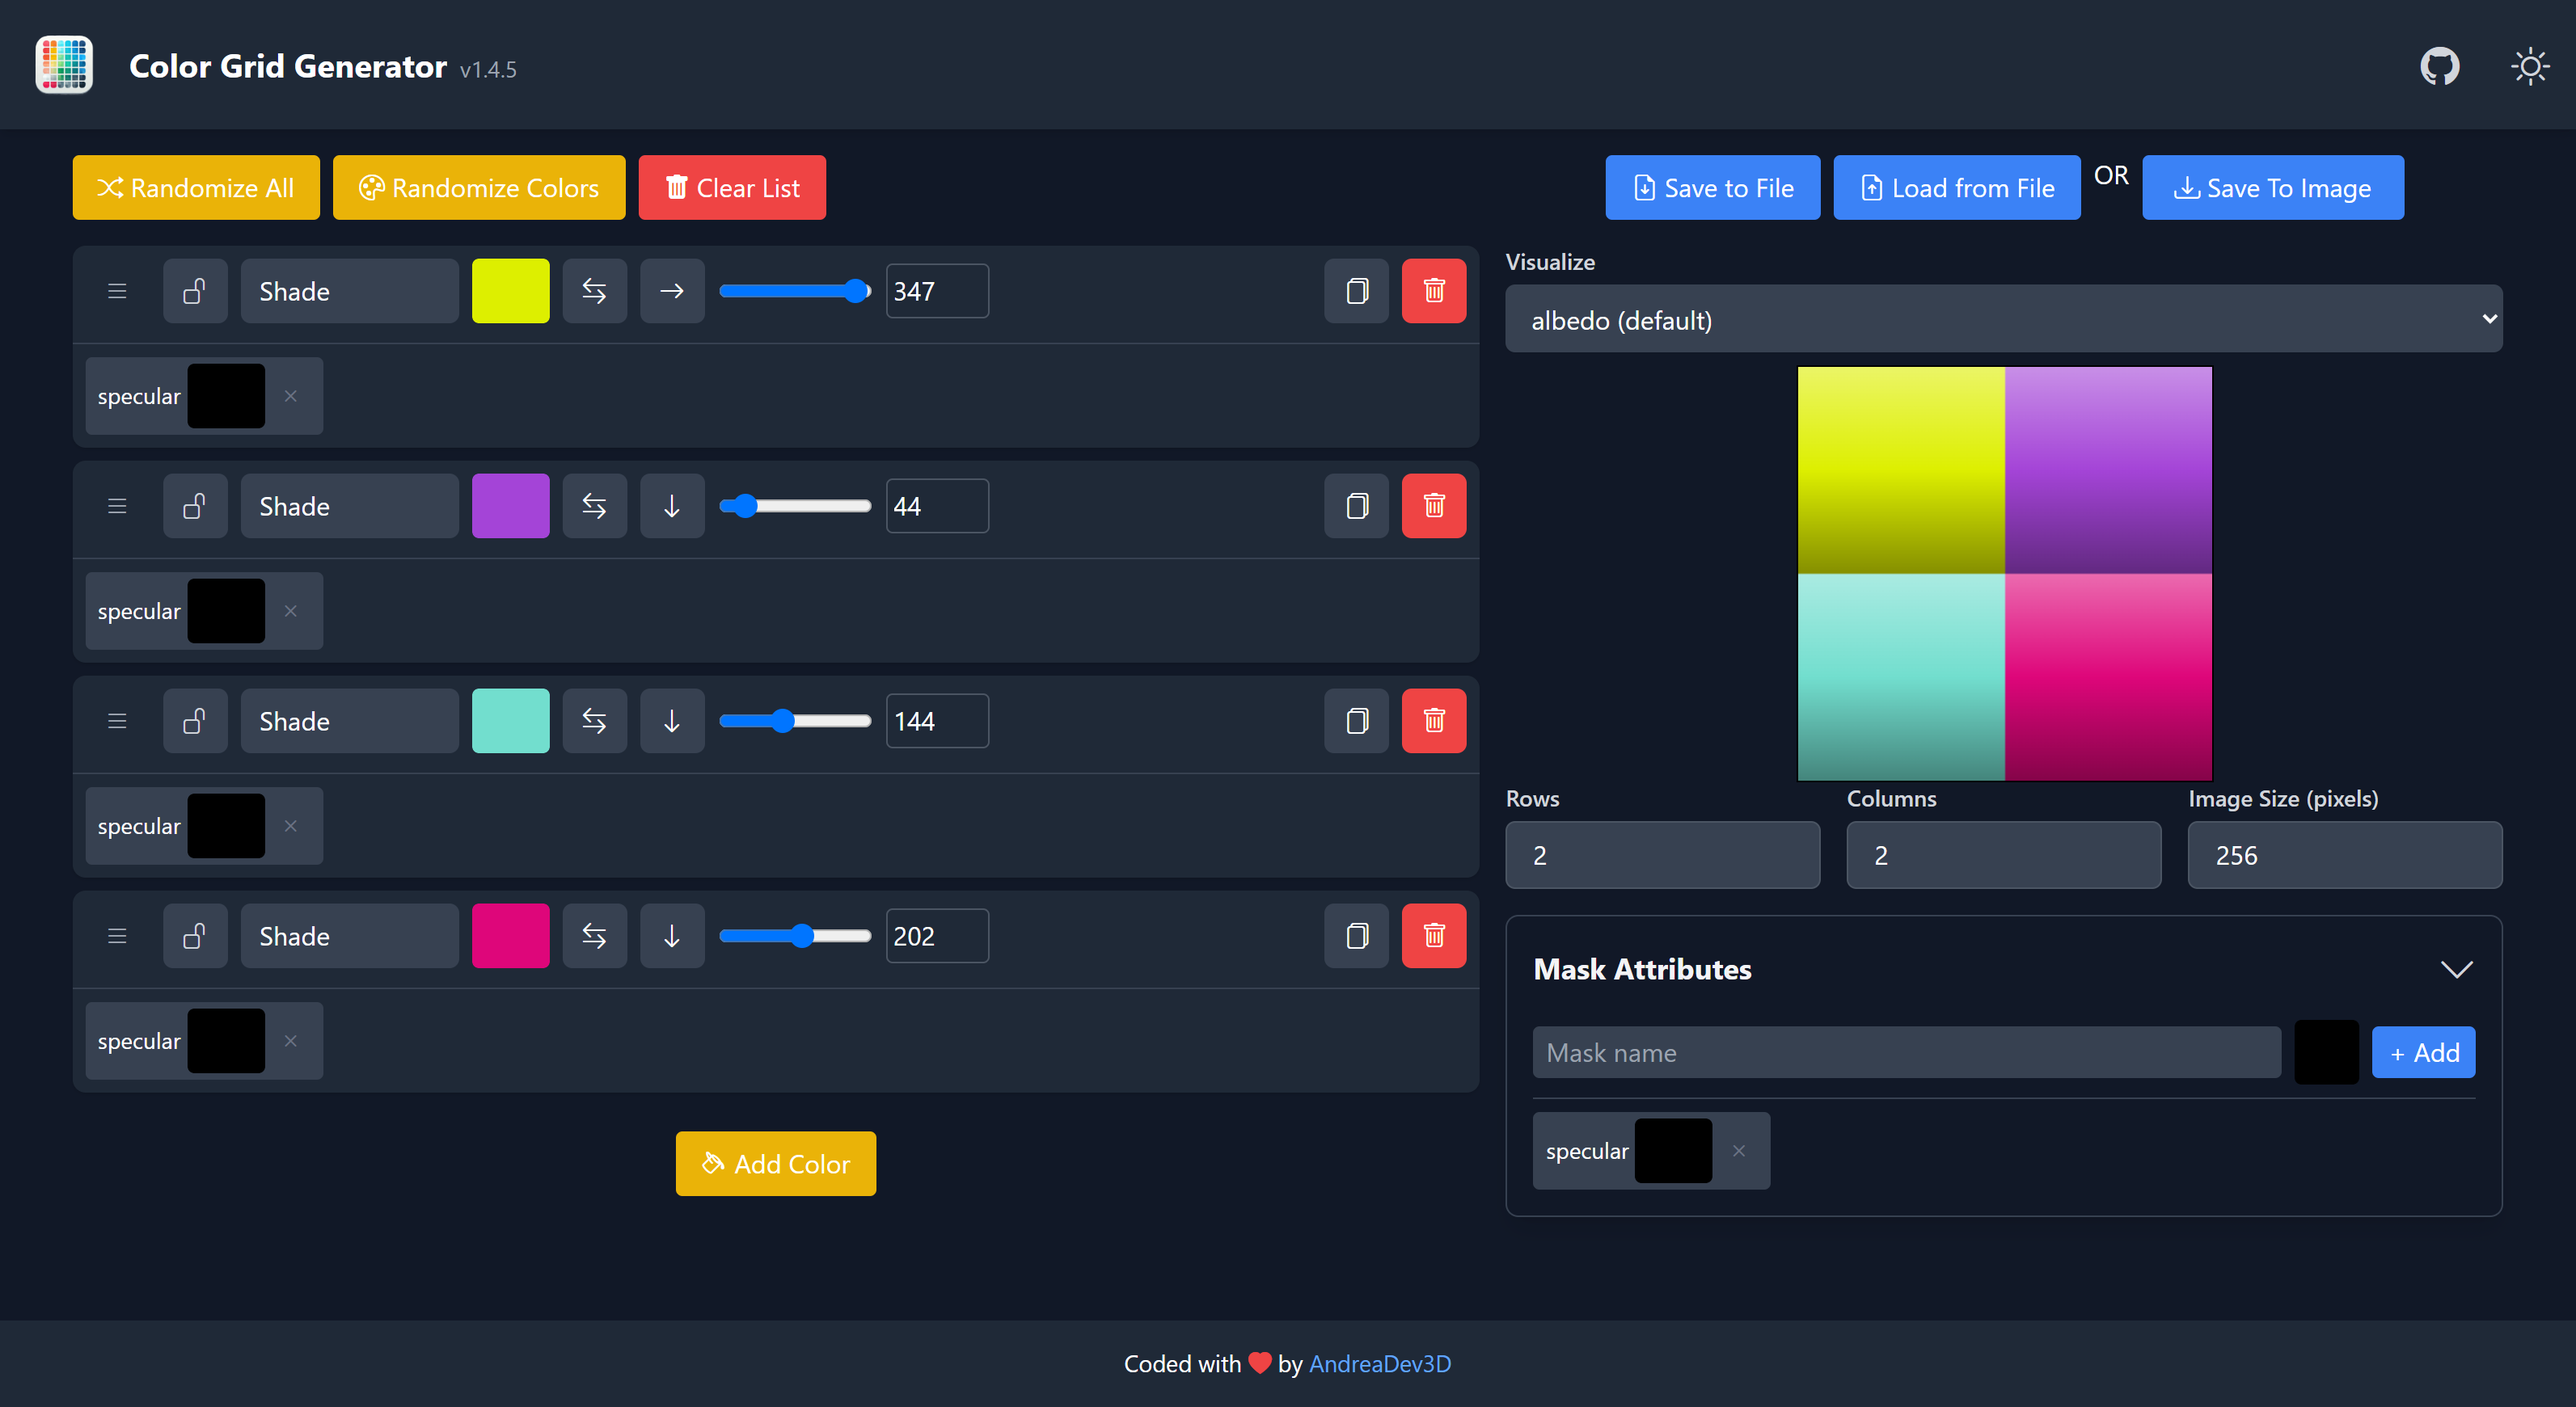
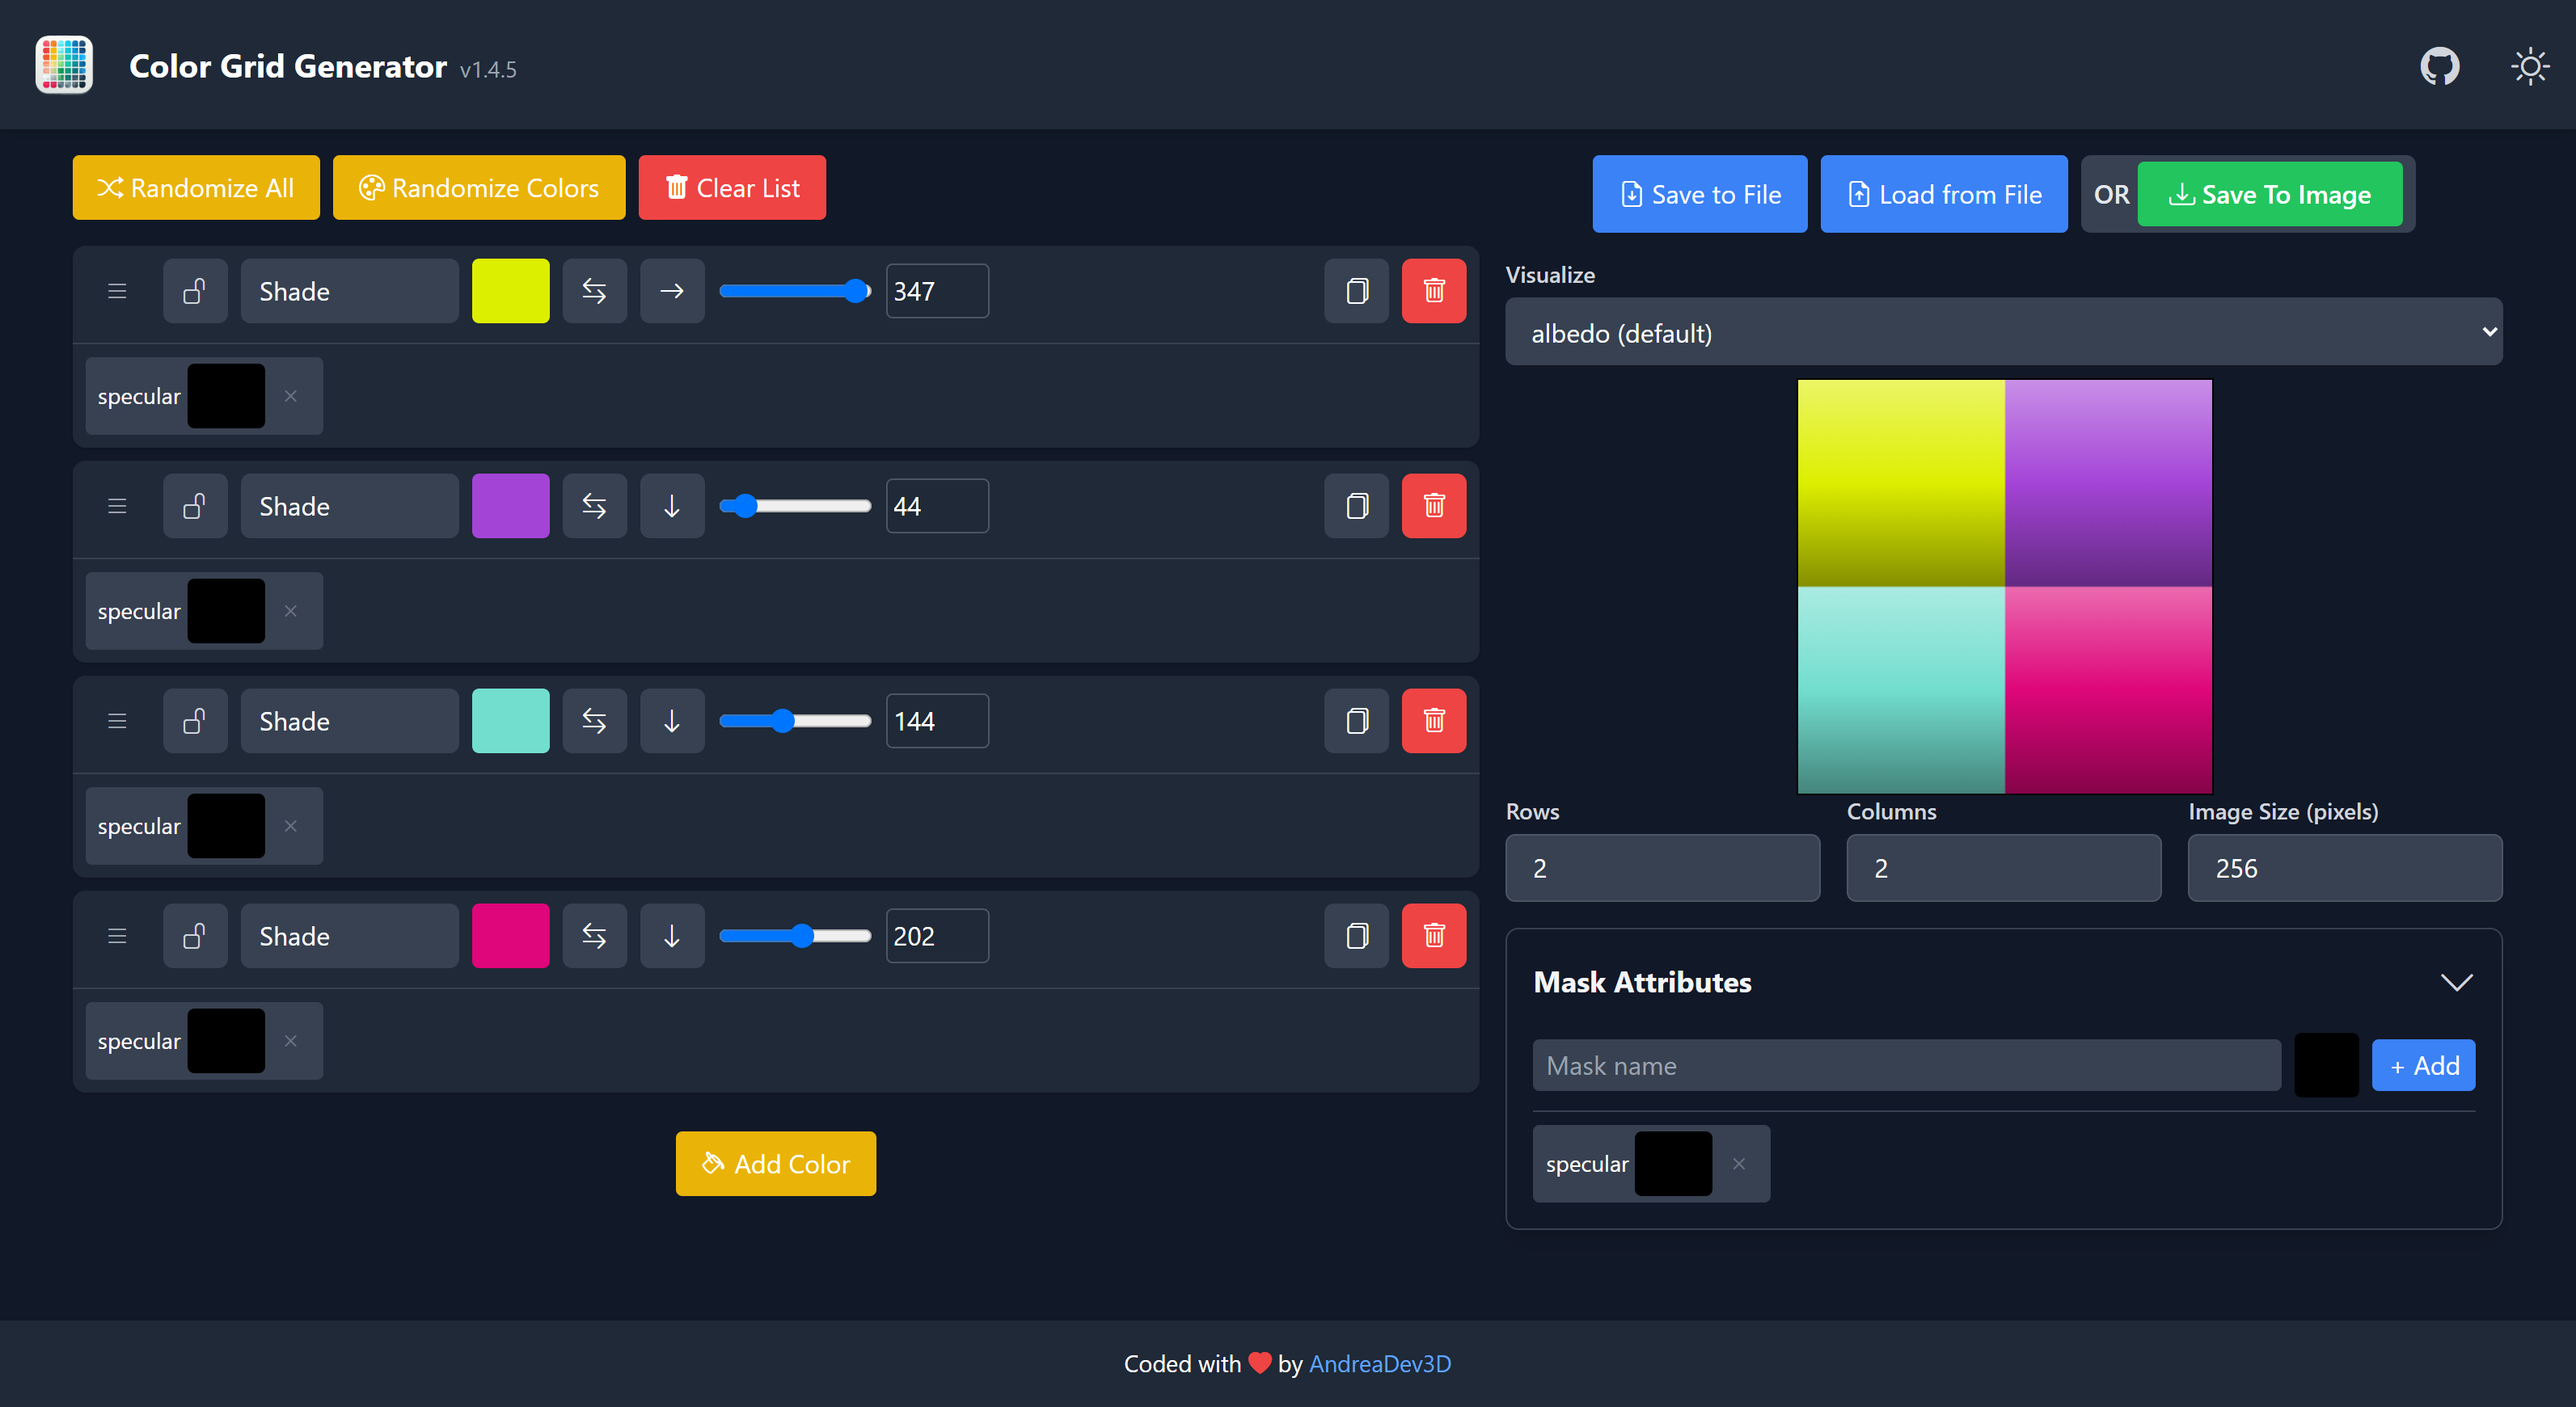
chore: Fix visual bug

diff --git a/index.html b/index.html
@@ -97,11 +97,12 @@
                         <i class="bi bi-file-earmark-arrow-up"></i> Load from File
                     </button>
 
-                    <span>OR</span>
+                    <p class="px-2 py-1 bg-gray-200 dark:bg-gray-700 text-gray-800 dark:text-gray-200 font-medium rounded-md"
+                        style="vertical-align: middle;">OR</span>
 
-                    <button class="bg-blue-500 text-white px-5 py-2 rounded" id="saveImage">
-                        <i class="bi bi-download"></i> Save To Image
-                    </button>
+                        <button class=" bg-green-500 text-white px-5 py-2 rounded" id="saveImage">
+                            <i class="bi bi-download"></i> Save To Image
+                        </button>
                 </div>
 
                 <!-- Add this after the grid controls and before the warning/canvas -->
